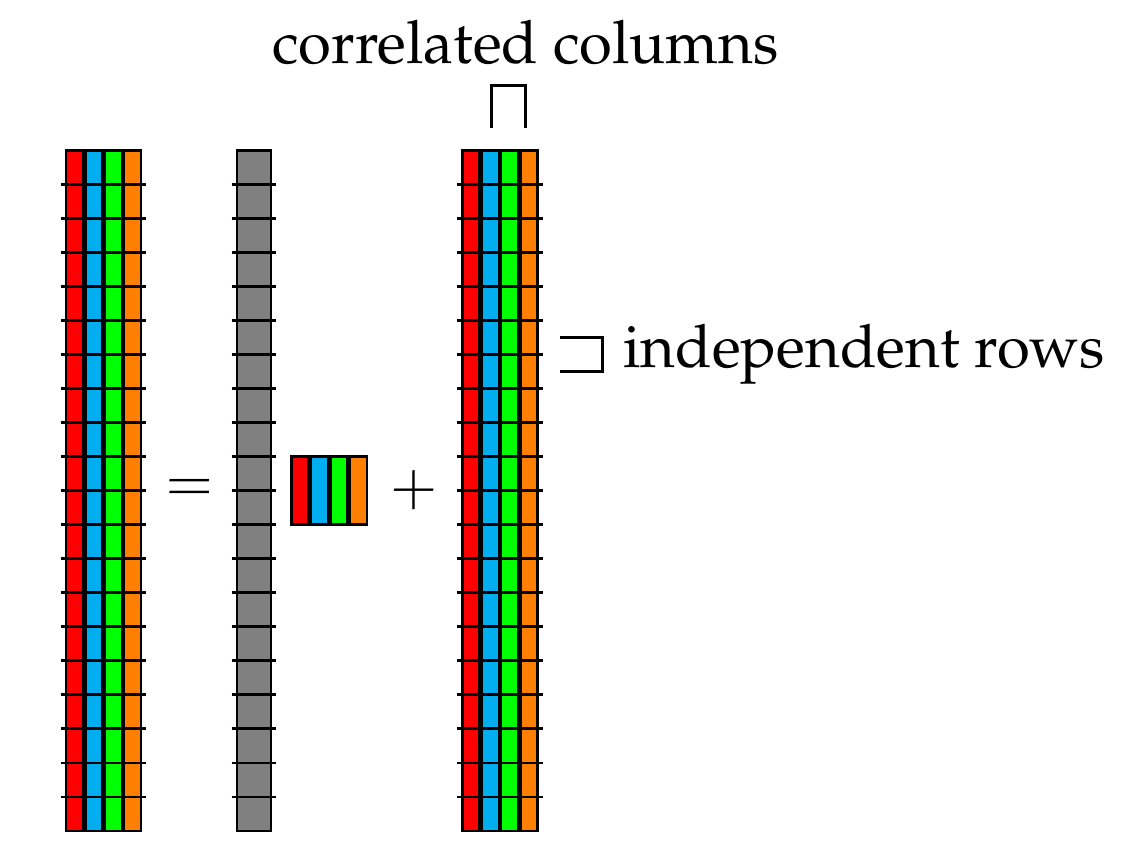
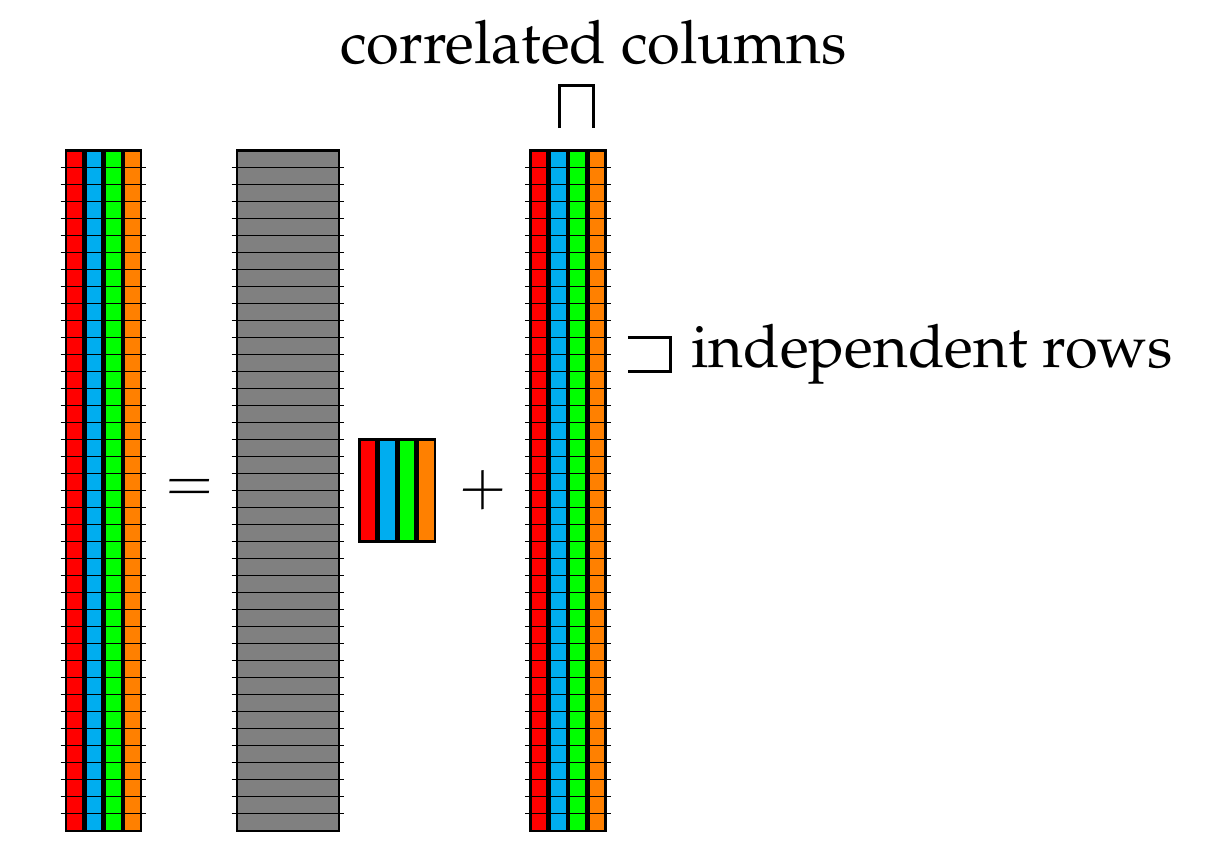
Improves the image.

Changed region(s): [[0.1842, 0.0305, 0.9825, 0.9765], [0.0307, 0.1526, 0.1535, 0.9765]]

diff --git a/README.md b/README.md
@@ -5641,14 +5641,14 @@ in on <http://www.leg.ufpr.br/~walmes/tikz/> (updated less frequently).
   };
 
   \matrix[mtn, right=of Y] (X) {%
-    \matColumn{gray}{0.2, 4}; \\
+    \matColumn{gray}{0.6, 4}; \\
   };
 
   \matrix[mtn, right=-4pt of X] (beta) {%
-    \matColumn{red}{0.1, 0.4}; &
-    \matColumn{cyan}{0.1, 0.4}; &
-    \matColumn{green}{0.1, 0.4}; &
-    \matColumn{orange}{0.1, 0.4}; \\
+    \matColumn{red}{0.1, 0.6}; &
+    \matColumn{cyan}{0.1, 0.6}; &
+    \matColumn{green}{0.1, 0.6}; &
+    \matColumn{orange}{0.1, 0.6}; \\
   };
 
   \matrix[mtn, right=of beta] (E) {%
@@ -5658,22 +5658,22 @@ in on <http://www.leg.ufpr.br/~walmes/tikz/> (updated less frequently).
     \matColumn{orange}{0.1, 4}; \\
   };
 
-  \foreach \dy in {-1.8, -1.6, ..., 1.8}{
-    \draw ($(Y.west)+(0.1, \dy)$) -- ($(Y.east)+(-0.1, \dy)$);
-    \draw ($(X.west)+(0.1, \dy)$) -- ($(X.east)+(-0.1, \dy)$);
-    \draw ($(E.west)+(0.1, \dy)$) -- ($(E.east)+(-0.1, \dy)$);
+  \foreach \dy in {-1.9, -1.8, ..., 1.9}{
+    \draw[very thin] ($(Y.west)+(0.1, \dy)$) -- ($(Y.east)+(-0.1, \dy)$);
+    \draw[very thin] ($(X.west)+(0.1, \dy)$) -- ($(X.east)+(-0.1, \dy)$);
+    \draw[very thin] ($(E.west)+(0.1, \dy)$) -- ($(E.east)+(-0.1, \dy)$);
   }
 
   \node at ($(Y.east)!0.5!(X.west)$) {$=$};%
   \node at ($(beta.east)!0.5!(E.west)$) {$+$};%
 
-  \draw[draw = black] ($(E.east)+(0, 0.9)$) -- 
+  \draw[draw = black] ($(E.east)+(0, 0.9)$) --
     +(0.25,0) |- node [pos = 0.25, anchor = west] {independent rows}
-     +(0, -0.2);
+    +(0, -0.2);
 
-  \draw[draw = black] ($(E.north)+(-0.05, 0)$) -- 
+  \draw[draw = black] ($(E.north)+(-0.05, 0)$) --
     +(0, 0.25) -| node [pos = 0.5, anchor = -90] {correlated columns}
-+(0.2, 0) ;
+    +(0.2, 0);
 
 %   \node (rec1) [draw, fit = (Y) (E)] {};
 %   \node [above=0cm of rec1] {$Y = XB + E$};
